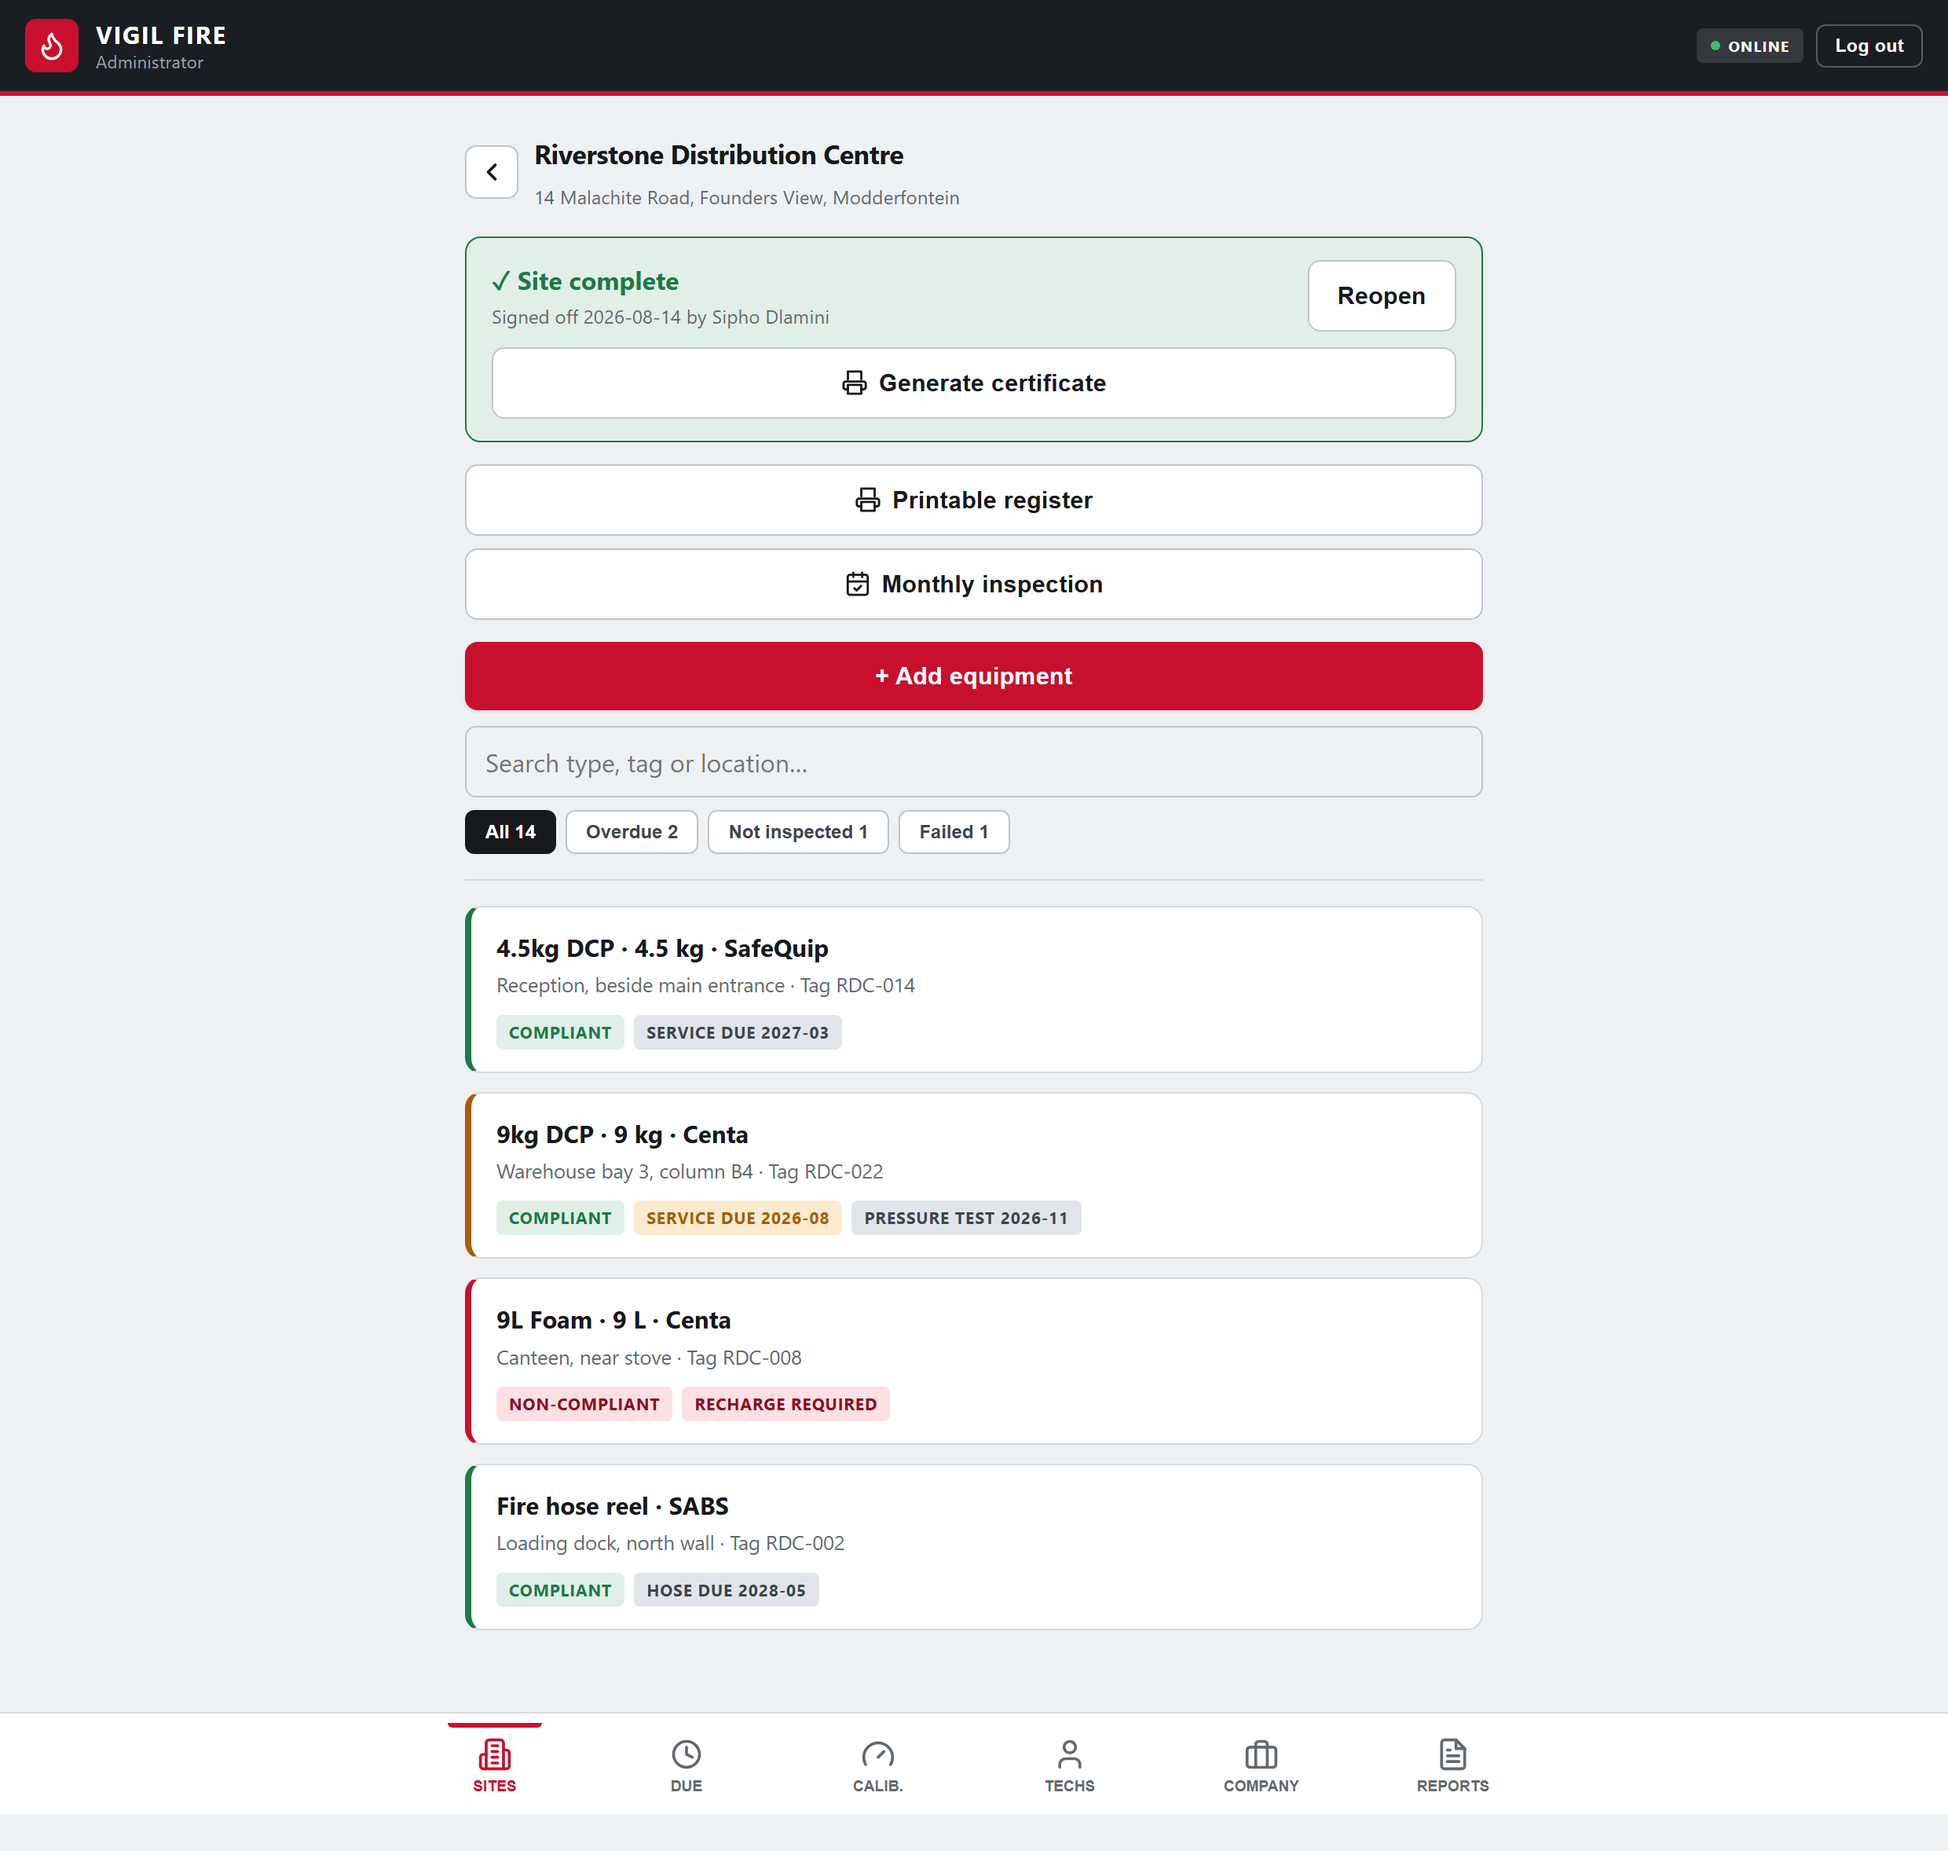
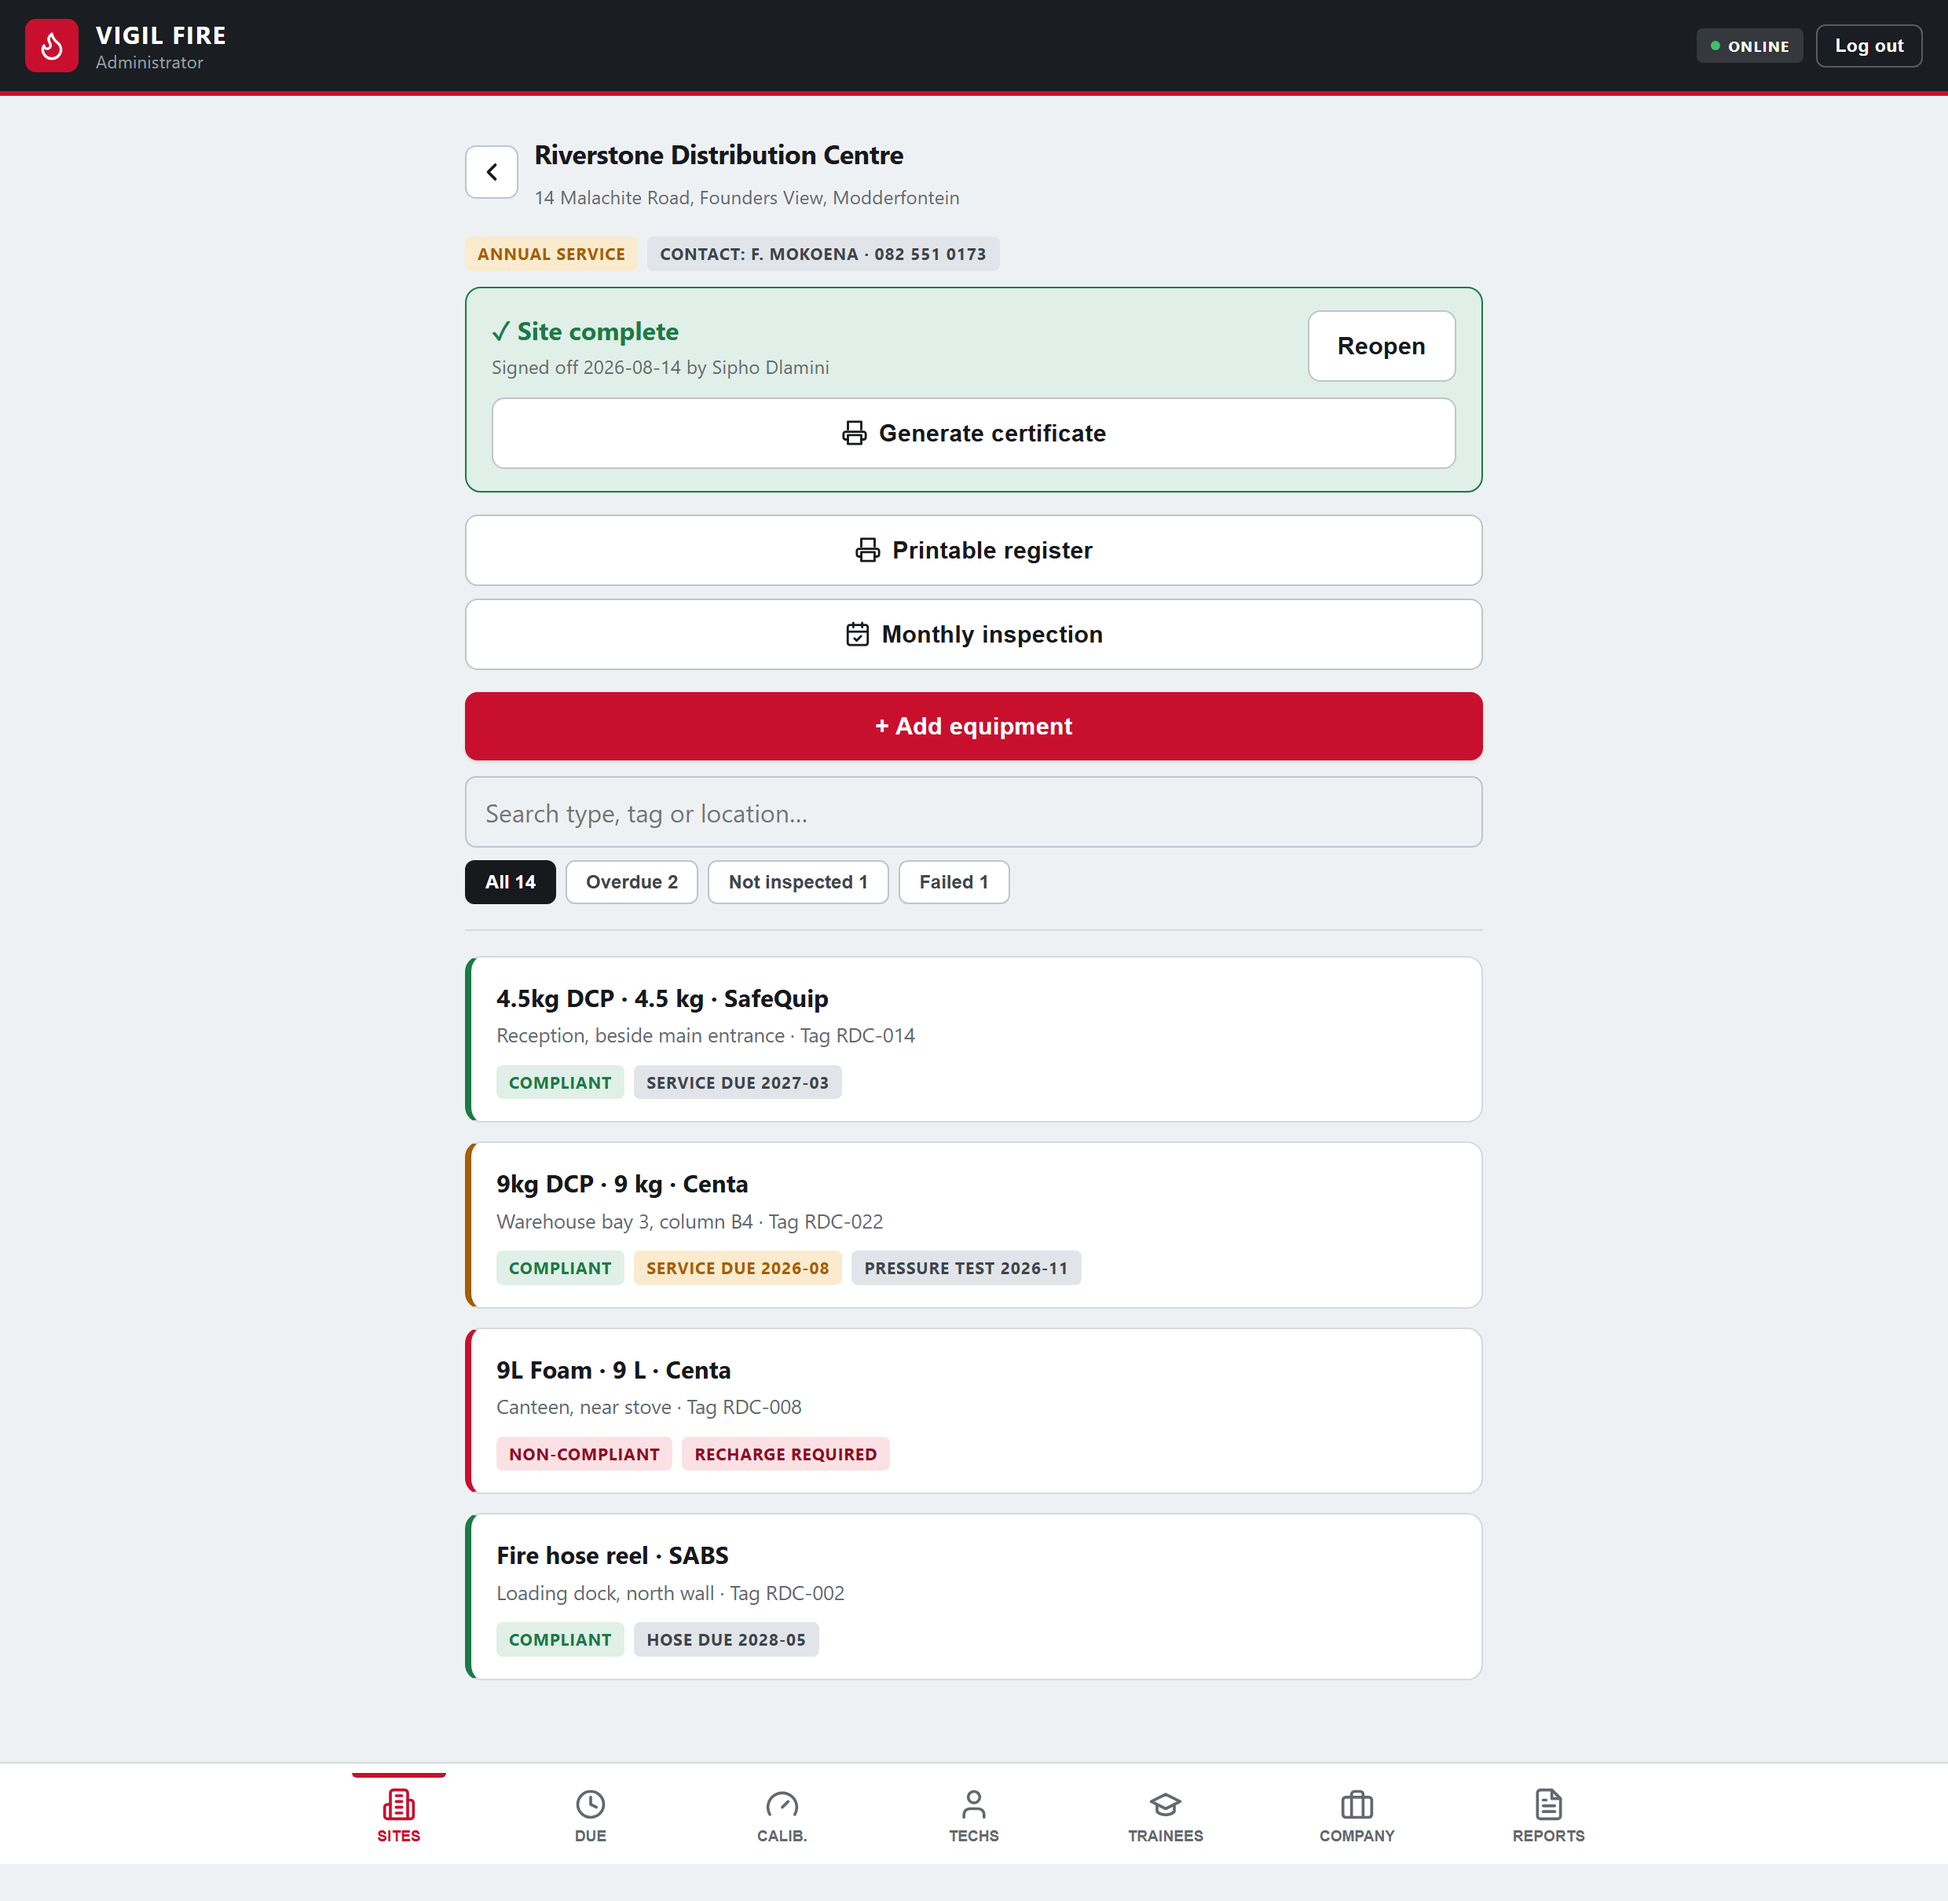
update to marketing

diff --git a/README.md b/README.md
@@ -12,9 +12,14 @@ app or its offline cache.
 ```
 index.html      ← the whole site (inline CSS + a few lines of JS, no build step)
 .nojekyll       ← lets GitHub Pages serve the files as-is
-screens/        ← put real screenshots here (see placeholders in index.html)
+screens/        ← app screenshots used on the page (site-register, due-list, equipment-form, trainee-logbook)
 og-image.png    ← 1200×630 social preview image (referenced in <head>)
 ```
+
+The screenshots are generated, not live captures: HTML mock-ups that reuse the
+app's own CSS with realistic sample data, rendered with headless Chrome. They
+track the live app at `https://vigilfire.github.io/app/` — when the app gains or
+changes a feature, refresh the copy here and re-shoot.
 
 ## Fill in the placeholders
 
@@ -26,8 +31,8 @@ Search `index.html` for `TODO` and `{{ }}`:
 | _(contact details)_ | Done — email `vigilfire1@gmail.com`, phone/WhatsApp `063 399 4805` |
 | `{{FORM_ID}}` | Done — the contact form posts to Formspree form `xwlklgvw`. Swap the id in the `<form action>` to change it, **or** switch to Netlify Forms — see the comment above the `<form>` |
 | footer entity line | Deferred — company not yet registered; once "Vigil Fire (Pty) Ltd" is registered, uncomment the line in the footer |
-| `screens/*.png` | Real screenshots — replace each `<div class="ph">…</div>` with `<img src="screens/name.png" alt="…">` |
-| `og-image.png` | A 1200×630 preview image for social/link unfurls |
+| `screens/*.png` | Done — four generated screenshots wired into `index.html` (see Structure note above) |
+| `og-image.png` | Done — 1200×630 branded card |
 | `<link rel="canonical">` / `og:url` | Your real domain |
 
 _Standards naming: the site consistently uses **SANS 1475-1** (not bare "SANS 1475")._

diff --git a/screens/README1.md b/screens/README1.md
@@ -1,1 +1,15 @@
-Drop real app screenshots here (PNG). Referenced from ../index.html — replace each <div class="ph"> placeholder with an <img>.
+App screenshots shown on the marketing site (`../index.html`).
+
+These are **generated**, not live captures: standalone HTML mock-ups that reuse
+the Vigil Fire app's own CSS with realistic sample data, rendered to PNG with
+headless Chrome at 2× for retina displays.
+
+| File | Section | What it shows |
+|---|---|---|
+| `site-register.png` | Hero | A site's equipment register — service type, status accents, printable register / certificate |
+| `due-list.png` | "The Due list is the day's work" | Cross-site Due & overdue dashboard, most urgent first |
+| `equipment-form.png` | "No signal in the basement?" | The combined equipment + inspection form |
+| `trainee-logbook.png` | "The SAQCC trainee logbook" | A trainee's view — training status, daily logbook, competency progress |
+
+When the live app (`https://vigilfire.github.io/app/`) changes, refresh the
+matching mock-up and re-render.
